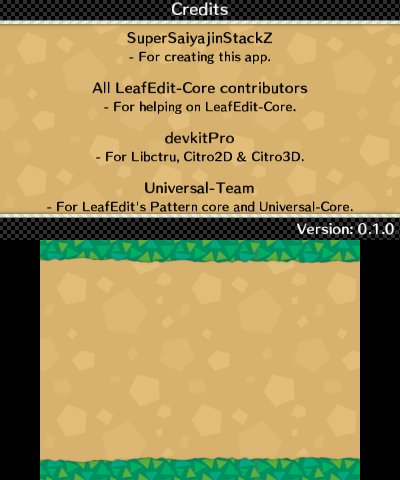
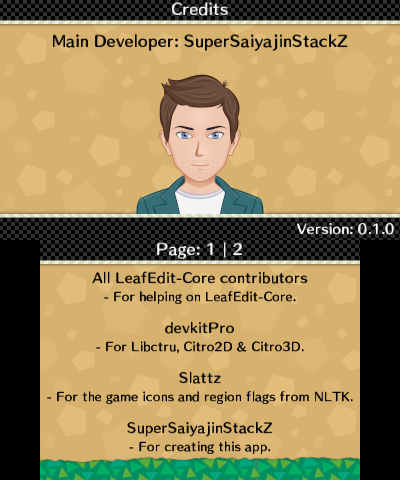
Rework Credits overlay.

Changed region(s): [[0.12, 0.0625, 0.87, 0.4688], [0.09, 0.5, 0.9, 0.8438], [0.3, 0.875, 0.69, 0.9688]]

diff --git a/source/overlays/creditsOverlay.cpp b/source/overlays/creditsOverlay.cpp
@@ -26,7 +26,7 @@
 
 #include "overlay.hpp"
 
-static void Draw(void) {
+static void Draw(int page) {
 	Gui::clearTextBufs();
 	C3D_FrameBegin(C3D_FRAME_SYNCDRAW);
 	C2D_TargetClear(Top, C2D_Color32(0, 0, 0, 0));
@@ -34,29 +34,50 @@ static void Draw(void) {
 
 	UI::DrawBase(true, true);
 	UI::DrawSprite(sprites_bottom_bar_idx, 0, 209);
+	UI::DrawSprite(sprites_stackz_idx, 130, 74);
 	Gui::DrawStringCentered(0, -2, 0.9f, C2D_Color32(255, 255, 255, 255), "Credits", 395, 0, fnt);
-
-	Gui::DrawStringCentered(0, 28, 0.8f, C2D_Color32(0, 0, 0, 255), "SuperSaiyajinStackZ", 395, 0, fnt);
-	Gui::DrawStringCentered(0, 48, 0.7f, C2D_Color32(0, 0, 0, 255), "- For creating this app.", 395, 0, fnt);
-	Gui::DrawStringCentered(0, 78, 0.8f, C2D_Color32(0, 0, 0, 255), "All LeafEdit-Core contributors", 395, 0, fnt);
-	Gui::DrawStringCentered(0, 98, 0.7f, C2D_Color32(0, 0, 0, 255), "- For helping on LeafEdit-Core.", 395, 0, fnt);
-	Gui::DrawStringCentered(0, 128, 0.8f, C2D_Color32(0, 0, 0, 255), "devkitPro", 395, 0, fnt);
-	Gui::DrawStringCentered(0, 148, 0.7f, C2D_Color32(0, 0, 0, 255), "- For Libctru, Citro2D & Citro3D.", 395, 0, fnt);
-	Gui::DrawStringCentered(0, 178, 0.8f, C2D_Color32(0, 0, 0, 255), "Universal-Team", 395, 0, fnt);
-	Gui::DrawStringCentered(0, 198, 0.7f, C2D_Color32(0, 0, 0, 255), "- For LeafEdit's Pattern core and Universal-Core.", 395, 0, fnt);
-	Gui::DrawString(395-Gui::GetStringWidth(0.8, V_STRING, fnt), 219, 0.8, C2D_Color32(255, 255, 255, 255), V_STRING, 400, 0, fnt);
+	Gui::DrawStringCentered(0, 30, 0.9f, C2D_Color32(0, 0, 0, 255), "Main Developer: SuperSaiyajinStackZ", 390, 0, fnt);
+	Gui::DrawString(395 - Gui::GetStringWidth(0.8, V_STRING, fnt), 219, 0.8, C2D_Color32(255, 255, 255, 255), V_STRING, 400, 0, fnt);
 
 	UI::DrawBase(false, true);
+	UI::DrawSprite(sprites_top_bar_idx, 0, 0);
+	Gui::DrawStringCentered(0, -2, 0.9f, C2D_Color32(255, 255, 255, 255), "Page: " + std::to_string(page + 1) + " | 2", 395, 0, fnt);
+
+	if (page == 0) {
+		Gui::DrawStringCentered(0, 28, 0.8f, C2D_Color32(0, 0, 0, 255), "All LeafEdit-Core contributors", 395, 0, fnt);
+		Gui::DrawStringCentered(0, 48, 0.7f, C2D_Color32(0, 0, 0, 255), "- For helping on LeafEdit-Core.", 395, 0, fnt);
+		Gui::DrawStringCentered(0, 78, 0.8f, C2D_Color32(0, 0, 0, 255), "devkitPro", 395, 0, fnt);
+		Gui::DrawStringCentered(0, 98, 0.7f, C2D_Color32(0, 0, 0, 255), "- For Libctru, Citro2D & Citro3D.", 395, 0, fnt);
+		Gui::DrawStringCentered(0, 128, 0.8f, C2D_Color32(0, 0, 0, 255), "Slattz", 395, 0, fnt);
+		Gui::DrawStringCentered(0, 148, 0.7f, C2D_Color32(0, 0, 0, 255), "- For the game icons and region flags from NLTK.", 395, 0, fnt);
+		Gui::DrawStringCentered(0, 178, 0.8f, C2D_Color32(0, 0, 0, 255), "SuperSaiyajinStackZ", 395, 0, fnt);
+		Gui::DrawStringCentered(0, 198, 0.7f, C2D_Color32(0, 0, 0, 255), "- For creating this app.", 395, 0, fnt);
+	} else {
+		Gui::DrawStringCentered(0, 28, 0.8f, C2D_Color32(0, 0, 0, 255), "TotallyNotGuy", 395, 0, fnt);
+		Gui::DrawStringCentered(0, 48, 0.7f, C2D_Color32(0, 0, 0, 255), "- For LeafEdit's awesome Graphics.", 395, 0, fnt);
+		Gui::DrawStringCentered(0, 78, 0.8f, C2D_Color32(0, 0, 0, 255), "Universal-Team", 395, 0, fnt);
+		Gui::DrawStringCentered(0, 98, 0.7f, C2D_Color32(0, 0, 0, 255), "- For LeafEdit's Pattern core and Universal-Core.", 395, 0, fnt);
+	}
+	
 	C3D_FrameEnd(0);
 }
 
 void Overlays::CreditsOverlay() {
 	bool doOut = false;
+	int page = 0;
 
 	while(!doOut) {
-		Draw();
+		Draw(page);
 		hidScanInput();
 
-		if (hidKeysDown()) doOut = true;
+		if (hidKeysDown() & KEY_B) doOut = true;
+
+		if (hidKeysDown() & KEY_R || hidKeysDown() & KEY_RIGHT) {
+			page = 1;
+		}
+
+		if (hidKeysDown() & KEY_L || hidKeysDown() & KEY_LEFT) {
+			page = 0;
+		}
 	}
 }
